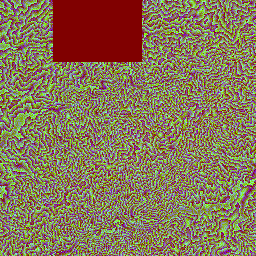
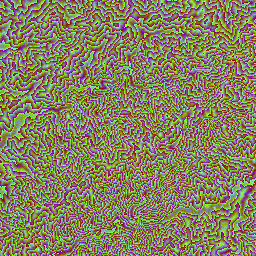
Fill nodata gap in 20 m DEM near Jianshi (Hsinchu) with AWS Terrain Tiles, bias-corrected at the seam
Claude-Session: https://claude.ai/code/session_01YbeDxKJftF8WRDLBQ5JP5G

Changed region(s): [[0.1875, 0.0, 0.5625, 0.25]]

diff --git a/README.md b/README.md
@@ -51,3 +51,8 @@
 - st.json：各測站 2022–2024 年逐時觀測統計：平均日最高溫（tmx）、平均日最低溫（tmn）、日最高溫 ≥ 30／35 °C 日數（d30、d35）、≥ 30／35 °C 時數與 < 10 °C 時數（h30、h35、h10，皆為每年平均）。
 - hr/{測站}.json：各月逐時平均氣溫（hp，12 × 24）與標準差（hs）。時段以整點前半小時起算，例如 0 代表 00:00 至 01:00。
 - 測站資料來源：中央氣象署 CODiS（經 Raingel/historical_weather 資料庫整理）。僅供規劃前期參考。
+
+## 地形缺口補遺（2026-11-25）
+地政司 2026 年版 20 m 數值地形在新竹縣尖石鄉一帶（約東經 121.02–121.14°、北緯 24.44–24.57°，約 155 km²）原檔即為無資料。
+此範圍改以 AWS Terrain Tiles（terrarium，主要來源 SRTM）補上，並依缺口周邊 20 m 地形的高差（平均 −18 m）逐點校正接縫。
+受影響的圖磚為 z8–z13 共 55 張；補遺區的精度約 30–90 m，低於其餘地區的 20 m。
